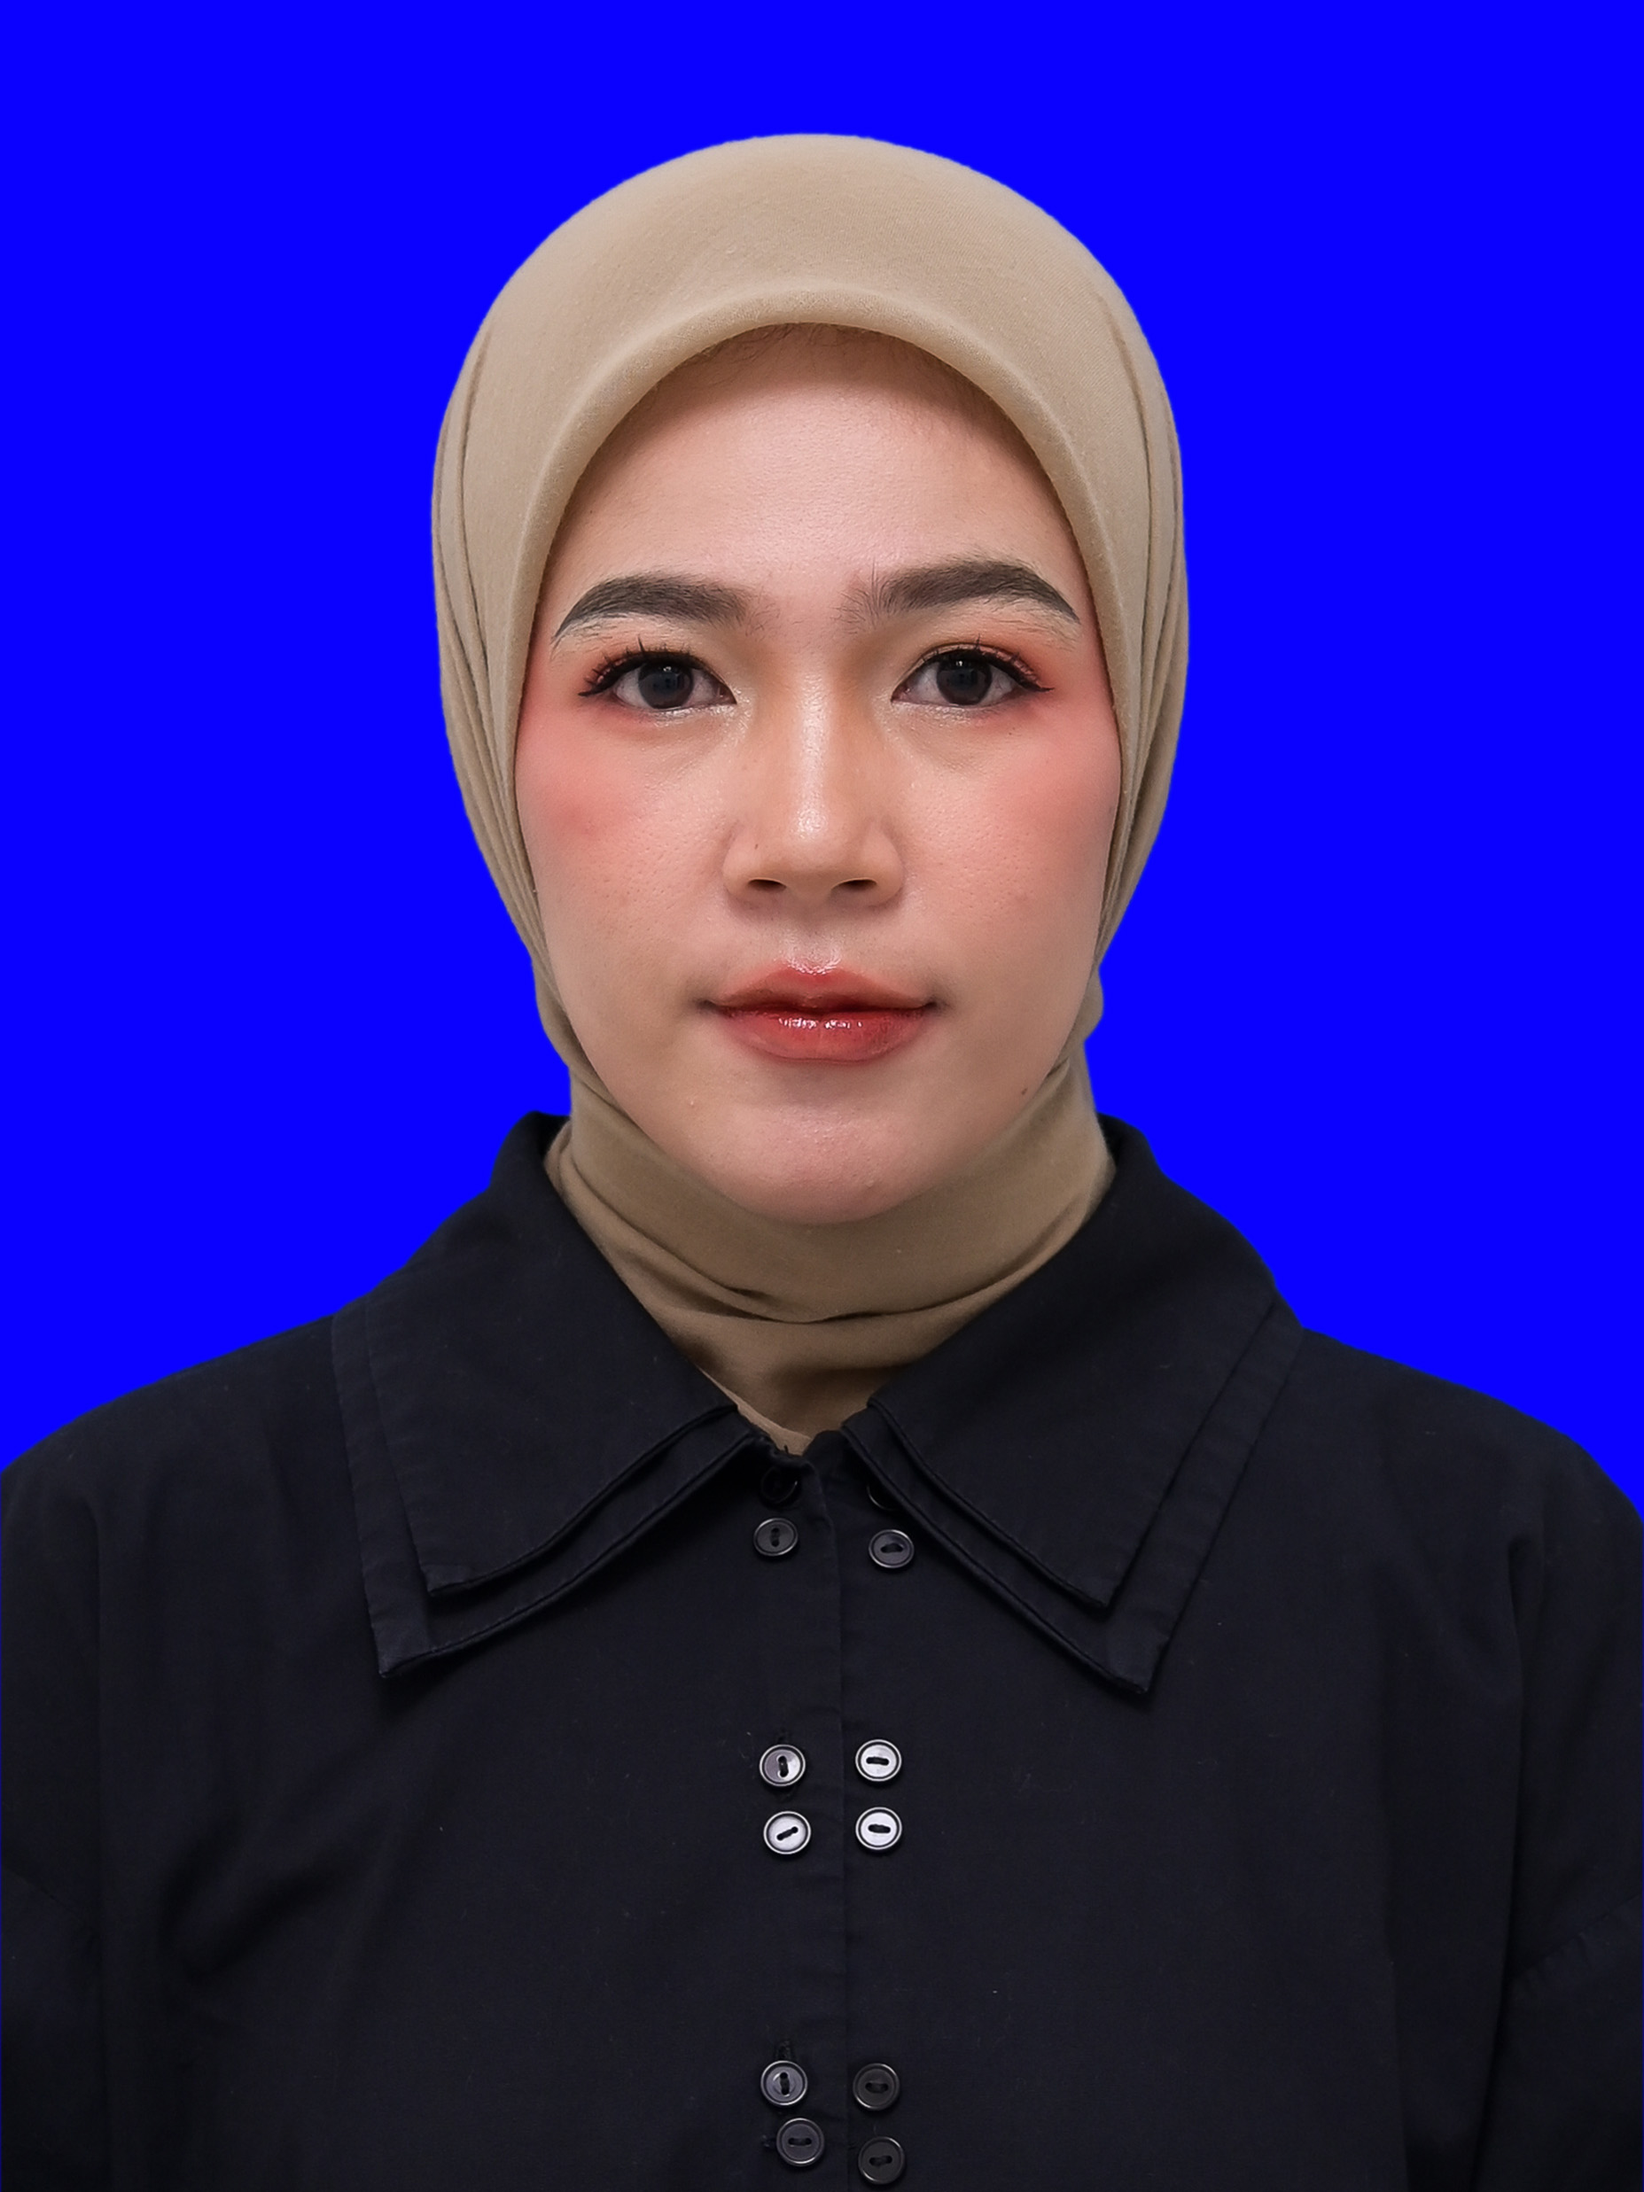
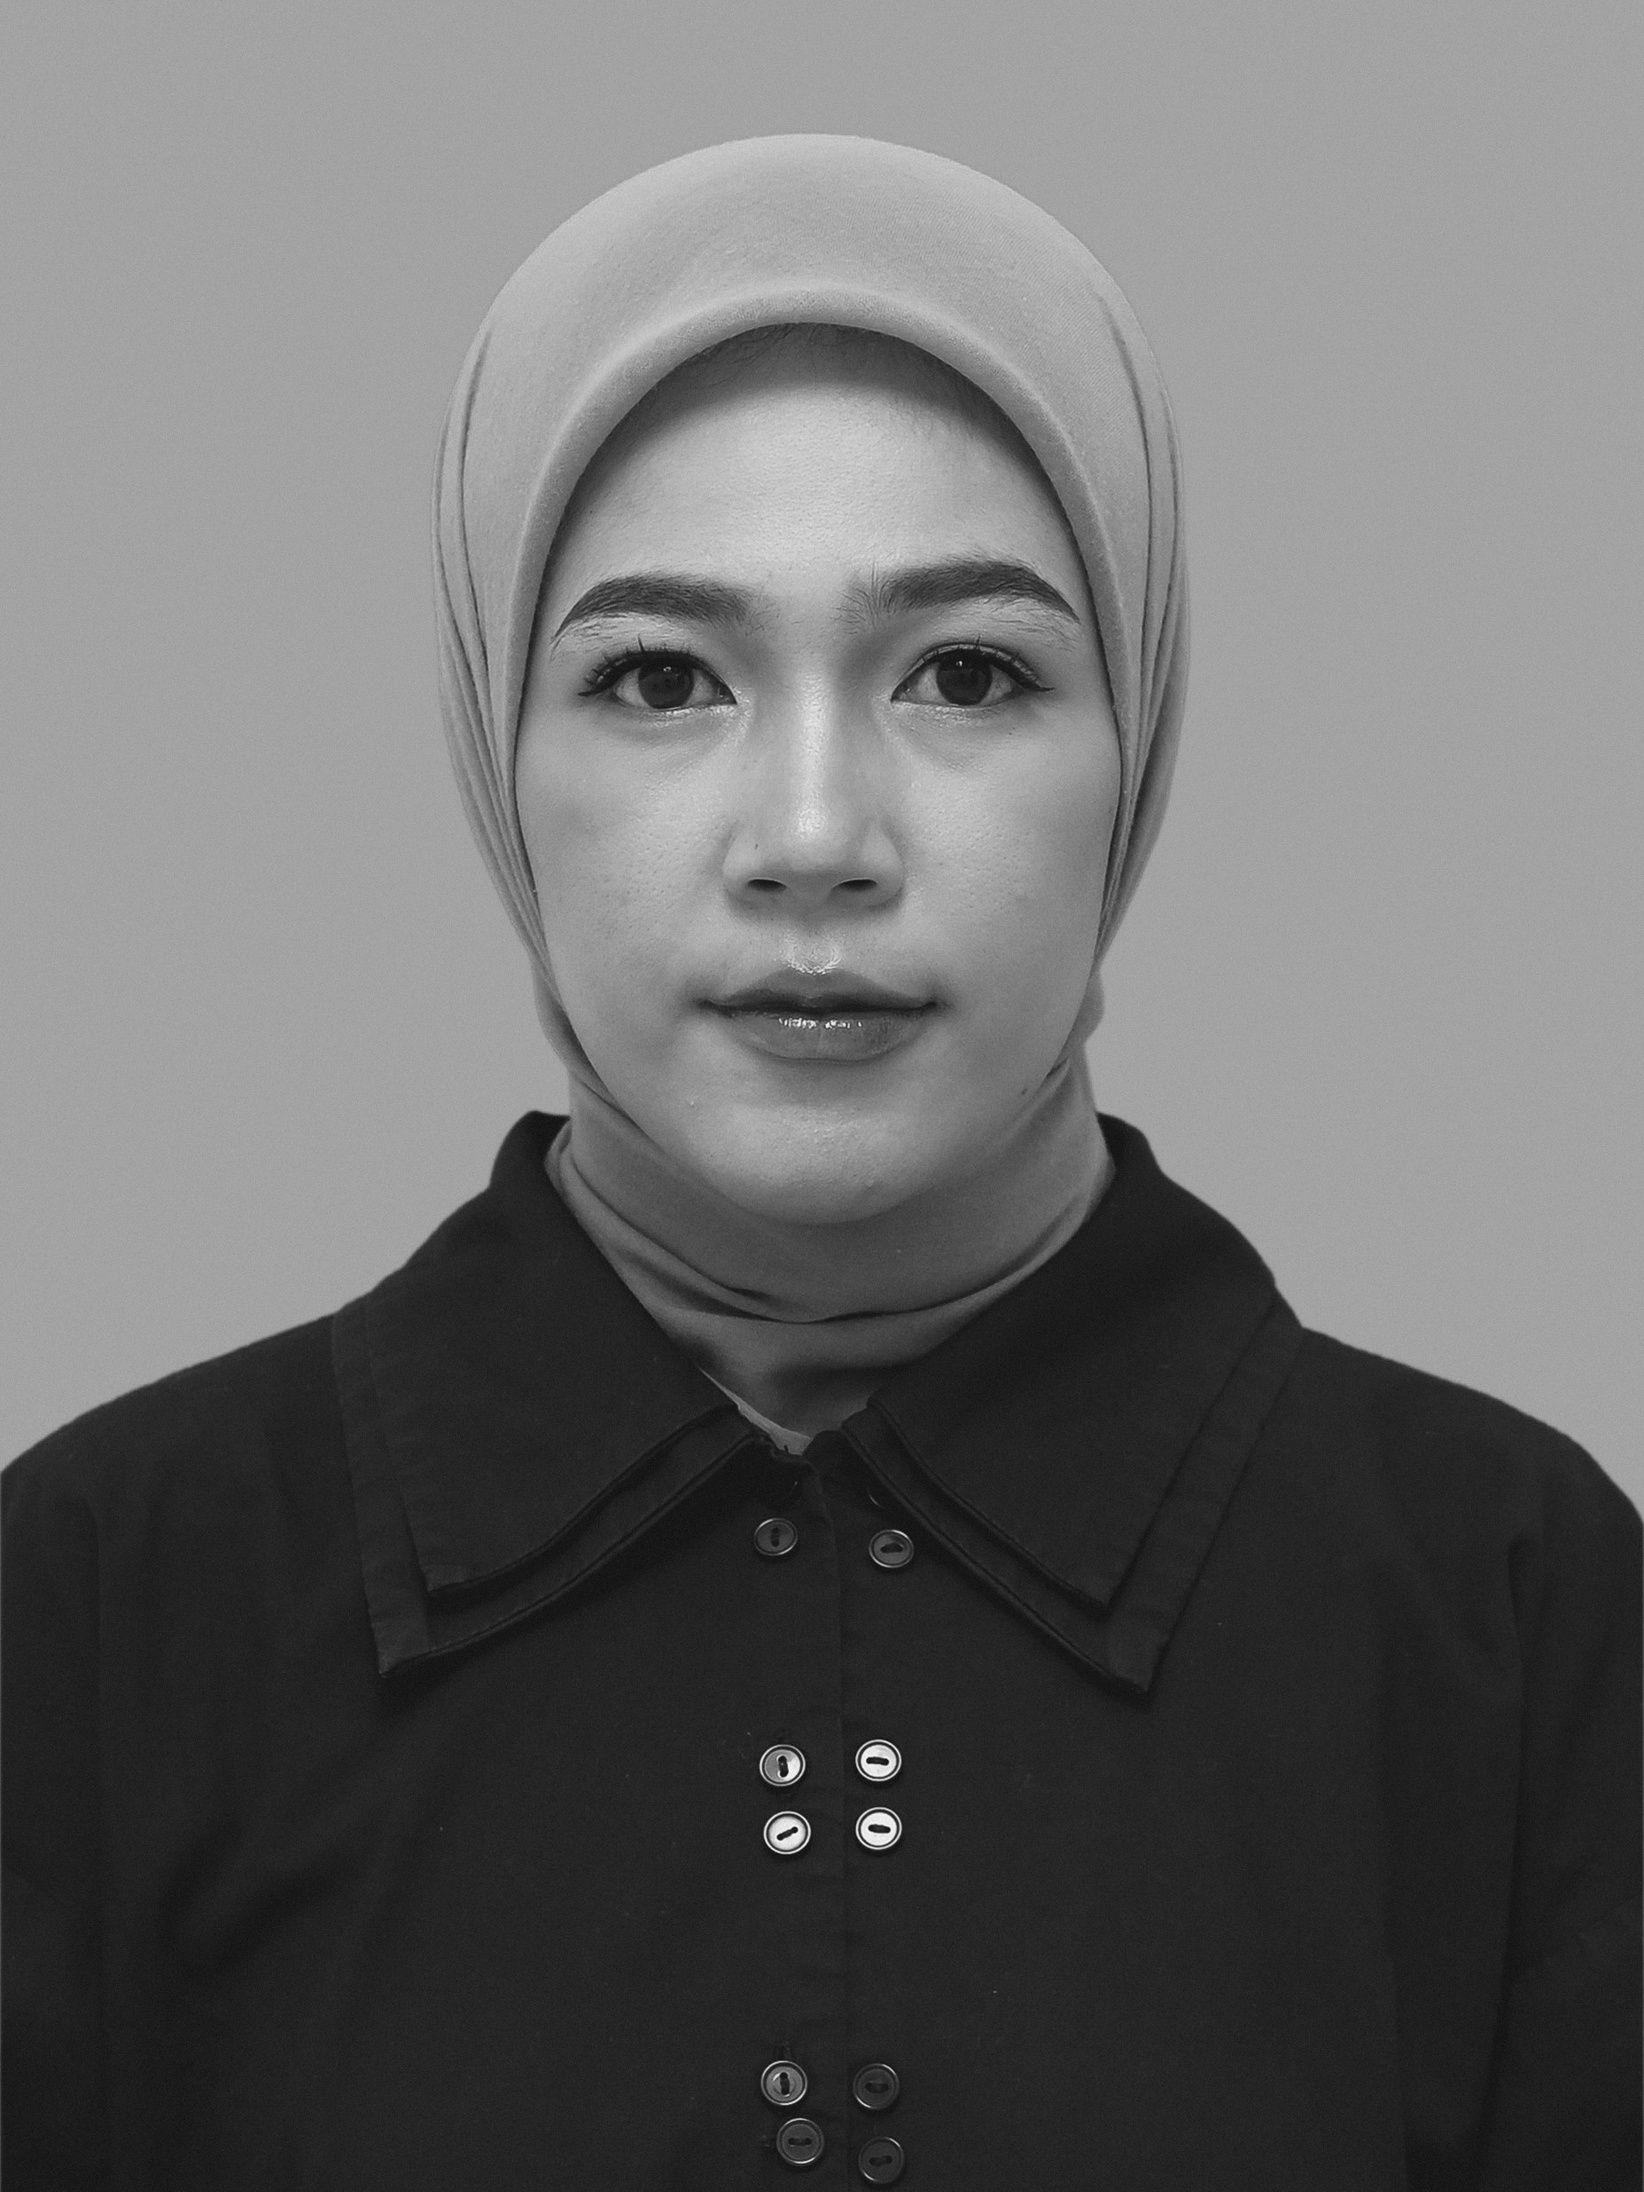
Add Docker support and update wedding details with new maps URLs

diff --git a/src/lib/components/Backsound.svelte b/src/lib/components/Backsound.svelte
@@ -1,109 +1,26 @@
 <script lang="ts">
   import { song } from "#lib/wedding.ts"
 
-  let audio: HTMLAudioElement | null = $state(null)
-  let playing = $state(false)
+  let audio: HTMLAudioElement
 
-  // Browsers block autoplay-with-sound until the visitor has interacted with
-  // the page, so queue playback to start on the very first interaction.
-  const INTERACTIONS = ["pointerdown", "keydown", "touchstart"] as const
-
-  function armRetry() {
-    for (const type of INTERACTIONS) window.addEventListener(type, start)
-  }
-
-  function disarmRetry() {
-    for (const type of INTERACTIONS) window.removeEventListener(type, start)
-  }
-
-  async function start() {
-    disarmRetry()
-    if (!audio) return
-    try {
-      await audio.play()
-    } catch (error) {
-      if (error instanceof DOMException && error.name === "NotAllowedError") armRetry()
-    }
-  }
+  // Browsers may block autoplay with sound until the visitor has interacted
+  // with the page, so keep retrying on any gesture that grants user activation.
+  const GESTURES = ["click", "touchend", "keydown"] as const
 
   $effect(() => {
-    if (!audio) return
+    const listen = () => GESTURES.forEach((type) => window.addEventListener(type, play))
+    const unlisten = () => GESTURES.forEach((type) => window.removeEventListener(type, play))
+    const play = () => audio.play().then(unlisten, () => {})
+
     audio.volume = song.volume
-    start()
+    listen()
+    play()
+
     return () => {
-      disarmRetry()
-      audio?.pause()
+      unlisten()
+      audio.pause()
     }
   })
 </script>
 
-<audio
-  bind:this={audio}
-  src={song.url}
-  loop
-  preload="auto"
-  onplay={() => (playing = true)}
-  onpause={() => (playing = false)}
-></audio>
-
-<button
-  type="button"
-  aria-pressed={playing}
-  aria-label={playing ? `Matikan musik — ${song.title}` : `Putar musik — ${song.title}`}
-  title={song.title}
-  onclick={() => (playing ? audio?.pause() : start())}
-  class="fixed right-5 bottom-5 z-50 flex size-11 cursor-pointer items-center justify-center rounded-full border border-ink bg-white text-ink shadow-sm transition-transform hover:scale-105 active:scale-95"
->
-  {#if playing}
-    <span class="flex items-center gap-[3px]" aria-hidden="true">
-      <span class="bar"></span>
-      <span class="bar"></span>
-      <span class="bar"></span>
-    </span>
-  {:else}
-    <svg
-      viewBox="0 0 24 24"
-      class="size-5"
-      fill="none"
-      stroke="currentColor"
-      stroke-width="1.5"
-      stroke-linecap="round"
-      stroke-linejoin="round"
-      aria-hidden="true"
-    >
-      <path d="M9 18V6l11-2v12" />
-      <circle cx="6" cy="18" r="3" />
-      <circle cx="17" cy="16" r="3" />
-      <path d="M3 3l18 18" />
-    </svg>
-  {/if}
-</button>
-
-<style>
-  .bar {
-    width: 3px;
-    height: 1rem;
-    border-radius: 9999px;
-    background: var(--color-ink);
-    transform-origin: center;
-    animation: eq 1.1s ease-in-out infinite;
-  }
-
-  .bar:nth-child(2) {
-    animation-delay: 0.25s;
-  }
-
-  .bar:nth-child(3) {
-    animation-delay: 0.5s;
-  }
-
-  @keyframes eq {
-    0%,
-    100% {
-      transform: scaleY(0.3);
-    }
-    50% {
-      transform: scaleY(1);
-    }
-  }
-</style>
+<audio bind:this={audio} src={song.url} loop autoplay preload="auto"></audio>

diff --git a/src/lib/wedding.ts b/src/lib/wedding.ts
@@ -17,33 +17,28 @@ export const couple = {
   },
 } as const
 
-const mapsSearch = (query: string) =>
-  `https://www.google.com/maps/search/?api=1&query=${encodeURIComponent(query)}`
-
 export const wedding = {
   /** ISO date of the wedding day. */
   date: "2026-11-01",
   dateLabel: "Minggu, 1 November 2026",
   akad: {
     title: "Akad Nikah",
-    time: "08.00 – 11.00 WIB",
+    time: "08.00 - 11.00 WIB",
     venue: "Jl. Ir Juanda",
     address: ["Kecamatan Way Jepara", "Lampung Timur"],
-    mapsUrl: mapsSearch("Jl. Ir Juanda, Way Jepara, Lampung Timur"),
+    mapsUrl: "https://maps.app.goo.gl/fufHi34Px9vY75fKA",
   },
   resepsi: {
     title: "Resepsi",
-    time: "11.00 WIB – Selesai",
+    time: "11.00 WIB - Selesai",
     venue: "Jl. Simpang Sadar",
     address: ["Kecamatan Mataram Baru", "Lampung Timur"],
-    mapsUrl: mapsSearch("Jl. Simpang Sadar, Mataram Baru, Lampung Timur"),
+    mapsUrl: "https://maps.app.goo.gl/dRU35Y5uwtnX54tT7",
   },
 } as const
 
-// Backsound played on the invitation pages. Drop an MP3 file at
-// `static/backsound.mp3` for this to work.
+// Backsound played on the invitation pages.
 export const song = {
-  title: "Jatuh Suka — Tulus",
   url: "/backsound.mp3",
   volume: 0.6,
 } as const
